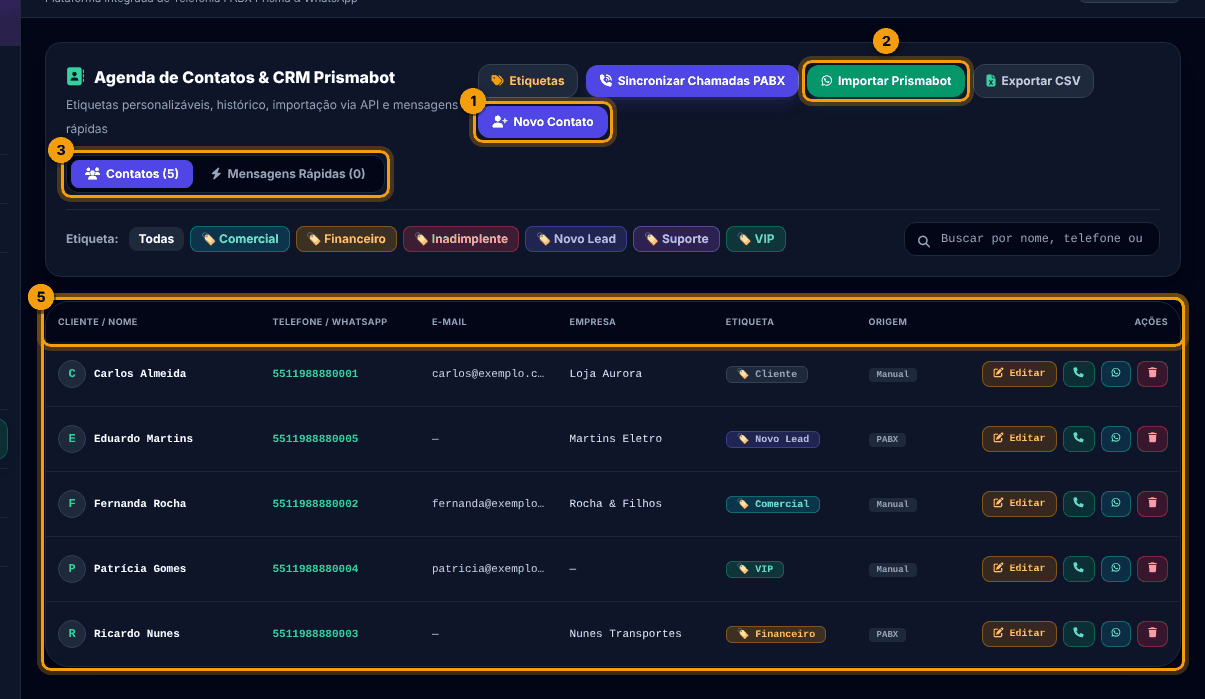
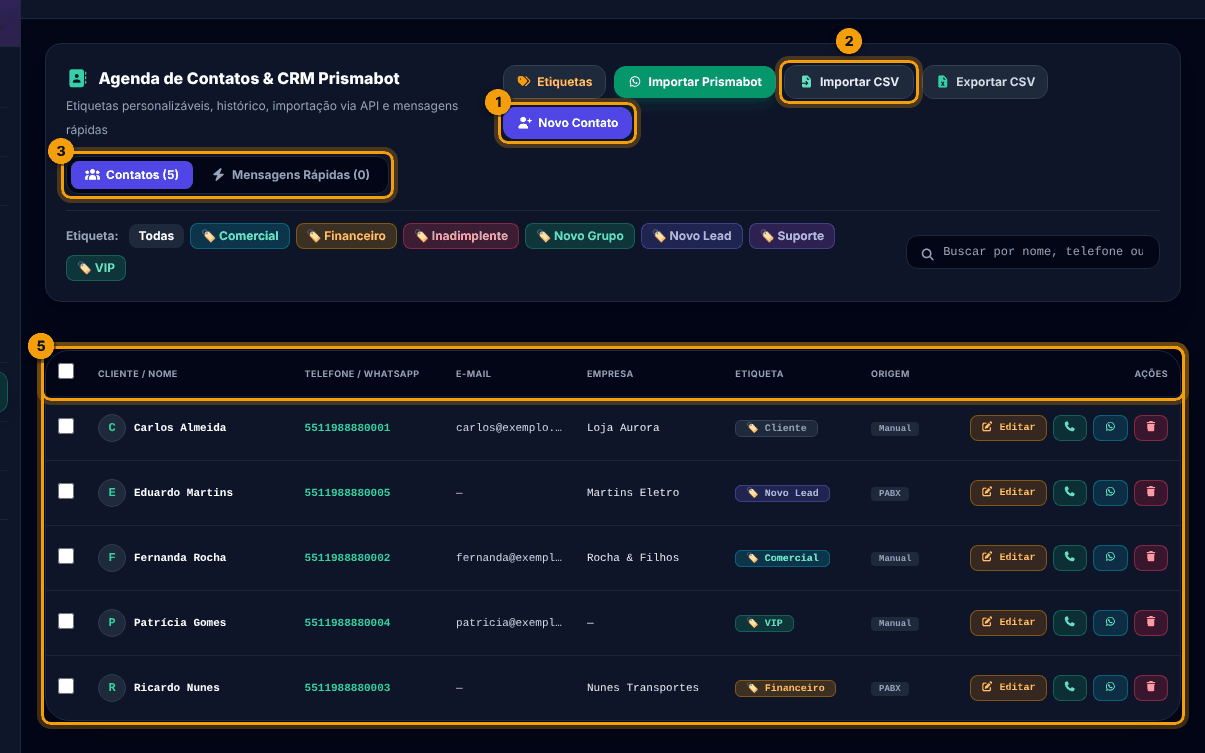
Manual: artigos com imagens e regras (Importar Prismabot, Importar CSV, apagar em lote, Agenda)
Claude-Session: https://claude.ai/code/session_01HdKHX4MgYy3BSAUchSo52J

diff --git a/src/front_api/pabx_panel/includes/manual.php b/src/front_api/pabx_panel/includes/manual.php
@@ -55,8 +55,9 @@ return [
         ['t' => 'Chamadas perdidas: quando avisar', 'd' => 'O atendente só é avisado quando a perda é real: ignora chamadas muito curtas e chamadas atendidas em outro ramal. Os limites são ajustáveis na tela de APIs & Conexões.'],
         ['t' => 'Histórico de envio', 'imgs' => [['f' => 'manual/tela-wa-historico.png', 'c' => 'Histórico de tudo o que foi enviado por WhatsApp.']], 'd' => 'Lista de tudo o que foi enviado e se chegou ao destino.'],
         ['t' => 'Disparo rápido', 'imgs' => [['f' => 'manual/tela-wa-disparo.png', 'c' => 'Disparo rápido: envio de teste com mensagem e anexo.']], 'd' => 'Envia uma mensagem de teste ou avulsa para um número. Dá para anexar uma foto, áudio, vídeo ou documento (até 16 MB): com o WhatsApp direto, cada arquivo vai no formato certo (a foto aparece como foto, o áudio como áudio).'],
-        ['t' => 'Agenda & Contatos', 'imgs' => [['f' => 'manual/tela-agenda.png', 'c' => 'Agenda & Contatos, sincronizada com o painel clássico.']], 'd' => 'Cadastro de contatos usado nos envios e na identificação de quem liga.'],
-        ['t' => 'Importar contatos por CSV', 'd' => 'Em Agenda & Contatos, clique em Importar CSV, escolha a planilha (salva como .csv) e clique em Ver prévia. O painel reconhece as colunas Nome, Telefone, E-mail, Empresa e Etiqueta, mesmo com nomes parecidos, e arruma os telefones. Na prévia você vê quantos contatos serão importados, quantos já existem, quantos estão repetidos no arquivo, quantos têm número inválido e quantos estão sem nome. Se alguma coluna não foi reconhecida, escolha a correta nas caixas e clique em Recalcular prévia. Marque Importar também os contatos sem nome se quiser incluí-los e clique em Importar agora. Para começar do zero, use Baixar modelo de planilha.', 'aviso' => 'Contatos cujo número já está na agenda não são cadastrados de novo. Etiquetas que ainda não existem são criadas automaticamente.'],
+        ['t' => 'Agenda & Contatos', 'imgs' => [['f' => 'manual/tela-agenda.png', 'c' => 'Agenda & Contatos, sincronizada com o painel clássico.']], 'd' => 'Cadastro de contatos usado nos envios e na identificação de quem liga. Os contatos daqui aparecem também na agenda do painel clássico, e o contrário também vale.', 'campos' => ['Novo Contato' => 'Cadastra um contato na mão (nome e telefone são obrigatórios).', 'Importar Prismabot' => 'Busca os contatos na API do Prismabot configurada em Configurações > API.', 'Importar CSV' => 'Importa uma planilha, com prévia antes de gravar.', 'Exportar CSV' => 'Baixa a lista de contatos em planilha.', 'Etiquetas' => 'Cria, edita e apaga etiquetas coloridas para organizar os contatos.'], 'aviso' => 'Regra geral de toda importação e cadastro: o número é a identidade do contato. Se o número já existe na agenda, ele não é cadastrado de novo, mesmo que venha com outra formatação (com ou sem 55, parênteses, traço ou o 9º dígito).'],
+        ['t' => 'Importar contatos do Prismabot', 'd' => 'O botão Importar Prismabot busca, na hora do clique, os contatos da API que está configurada em Configurações > API. Cada cliente usa a sua própria API: se você apagar a API e criar outra, basta atualizar a URL e o token e importar de novo para trazer os dados certos.', 'passos' => ['Confira em Configurações > API se a URL e o token estão preenchidos.', 'Em Agenda & Contatos, clique em Importar Prismabot.', 'Marque Importar também os contatos sem nome se quiser trazê-los (eles entram com o número no lugar do nome). Desmarcado, eles são ignorados.', 'Clique em Importar. A mensagem no topo mostra quantos contatos entraram e quantos sem nome foram ignorados.'], 'campos' => ['Contato sem nome' => 'É o que chega da API com nome vazio ou com o próprio número no lugar do nome.', 'Número já cadastrado' => 'É ignorado, para não duplicar.'], 'dica' => 'Se aparecer erro, a mensagem diz o motivo: token recusado, endereço não encontrado (404) ou URL fora do formato esperado.', 'aviso' => 'Importar não apaga nem altera contatos que já existem; só acrescenta os novos.'],
+        ['t' => 'Importar contatos por CSV', 'd' => 'Importa uma planilha de contatos de qualquer origem. O painel reconhece as colunas, arruma os telefones e mostra uma prévia: só depois que você confirma é que os contatos são gravados.', 'passos' => ['Salve a planilha como CSV (no Excel: Salvar como > CSV). Para começar do zero, clique em Importar CSV e depois em Baixar modelo de planilha.', 'Clique em Importar CSV, escolha o arquivo e clique em Ver prévia.', 'Confira o resumo e a lista de exemplo. Se alguma coluna não foi reconhecida, escolha a correta nas caixas Nome, Telefone, E-mail, Empresa e Etiqueta e clique em Recalcular prévia.', 'Marque Importar também os contatos sem nome, se quiser incluí-los.', 'Clique em Importar agora. A mensagem final resume o que entrou e o que foi ignorado.'], 'campos' => ['Serão importados' => 'Contatos com nome e número válido que ainda não existem na agenda.', 'Sem nome' => 'Linhas com número válido, mas sem nome. Só entram se a caixa for marcada, com o número no lugar do nome.', 'Já cadastrados' => 'O número já está na agenda: a linha é ignorada.', 'Repetidos no arquivo' => 'O mesmo número aparece mais de uma vez no arquivo: só a primeira vale.', 'Número inválido' => 'Telefone com poucos ou muitos dígitos. A prévia lista as linhas para você corrigir.'], 'dica' => 'O painel entende separador ; ou , e acentos de planilhas antigas. Telefones como (16) 3721-0000 ou 16 99999-0000 são arrumados e ganham o 55 sozinhos. Etiquetas que ainda não existem são criadas na hora.', 'aviso' => 'Limite de 5 MB e 20.000 linhas por arquivo. Acima disso, divida a planilha em partes.'],
         ['t' => 'Apagar vários contatos de uma vez', 'd' => 'Em Agenda & Contatos, marque a caixinha de cada contato que quer apagar, ou use a caixinha do topo da tabela para marcar todos os que aparecem (respeita o filtro de etiqueta e a busca). O botão vermelho Apagar selecionados mostra quantos estão marcados e pede confirmação antes de excluir.', 'aviso' => 'Contatos apagados não podem ser recuperados. A exclusão vale também para a agenda do painel clássico, que fica igual a esta.'],
         ['t' => 'Relatórios agendados por e-mail ou WhatsApp', 'd' => 'Em Configurações > E-mail (SMTP), no quadro Cadastrar Novo Agendamento: 1) dê um título; 2) escolha o relatório; 3) escolha a frequência (diário, semanal ou mensal); 4) confira o Período dos dados, que já vem sugerido (diário = ontem, semanal = semana anterior, mensal = mês anterior) e pode ser trocado por hoje, últimos 7 ou 30 dias; 5) defina o horário e o destino; 6) clique em Criar Agendamento. Para mudar algo depois, clique em Editar na lista de agendamentos ativos, ajuste e clique em Salvar Alterações.', 'aviso' => 'Um relatório enviado às 8h com período Hoje sai quase vazio, porque o dia mal começou. Para relatório diário, use Ontem.'],
         ['t' => 'Etiquetas dos contatos', 'd' => 'As etiquetas separam seus contatos por grupo (Comercial, Financeiro, VIP…). Você pode criar, editar e apagar as etiquetas quando quiser.', 'passos' => ['Em Agenda & Contatos, clique em Etiquetas (no topo da tela).', 'Para criar: digite o nome, escolha uma cor e clique em Criar Etiqueta.', 'Para editar: na lista de etiquetas existentes, clique no lápis, mude o nome e/ou a cor e clique em Salvar alterações. Os contatos que usavam a etiqueta passam a mostrar o nome novo.', 'Para apagar: clique na lixeira e confirme. Os contatos que usavam a etiqueta ficam sem etiqueta; nenhum contato é apagado.'], 'aviso' => 'Uma etiqueta apagada não volta sozinha, nem as que já vêm de fábrica. Se quiser de novo, crie outra com o mesmo nome.', 'dica' => 'A lista mostra quantos contatos usam cada etiqueta, para você saber o efeito antes de apagar.', 'kw' => 'etiqueta tag grupo contato editar apagar excluir renomear cor'],

diff --git a/scripts/manual-shots/specs_p2.py b/scripts/manual-shots/specs_p2.py
@@ -42,7 +42,20 @@ add('whatsapp', 'Disparo rápido',
   fig('w3-di', 'index.php?module=whatsapp&action=disparos', 'Disparo rápido de teste.', ['Telefone de destino, com DDD.', 'Texto da mensagem.', 'Anexo opcional: foto, áudio, vídeo ou documento (até 16 MB).', 'Agendar para: deixe em branco para enviar já.', 'Disparar ou Agendar Mensagem.', 'Envios Agendados: o que ainda vai ser enviado.'],
       [m(1, sel='input[placeholder*="11999998888"]', pos='tl'), m(2, sel='textarea', pos='tl'), m(3, sel='input[type=file]', pos='tl'), m(4, sel='input[type=datetime-local]', pos='tl'), m(5, t='Disparar ou Agendar', pos='r'), m(6, t='Envios Agendados', closest='[class*="rounded"]', pos='tl')], minw=700, vp=(1440, 1000)))
 add('whatsapp', 'Agenda & Contatos',
-  fig('w4-ag', 'index.php?module=whatsapp&action=contatos', 'Agenda de contatos.', ['Novo Contato.', 'Importar contatos e exportar em CSV.', 'Abas Contatos e Mensagens Rápidas.', 'Filtro por etiqueta e busca.', 'Lista de contatos com telefone, e-mail, empresa e etiqueta.'],
-      [m(1, t='Novo Contato', pos='tl'), m(2, t='Importar Prismabot', pos='t'), m(3, t='^\\s*Contatos \\(', up=1, pos='tl'), m(4, t='Etiqueta', up=1, pos='tl'), m(5, t='CLIENTE / NOME', closest='table', pos='tl')], minw=700),
+  fig('w4-ag', 'index.php?module=whatsapp&action=contatos', 'Agenda de contatos.', ['Novo Contato.', 'Importar Prismabot (da API) ou Importar CSV (de planilha) e exportar em CSV.', 'Abas Contatos e Mensagens Rápidas.', 'Filtro por etiqueta e busca.', 'Lista de contatos com telefone, e-mail, empresa e etiqueta.'],
+      [m(1, t='Novo Contato', pos='tl'), m(2, t='Importar CSV', pos='t'), m(3, t='^\\s*Contatos \\(', up=1, pos='tl'), m(4, t='Etiqueta', up=1, pos='tl'), m(5, t='CLIENTE / NOME', closest='table', pos='tl')], minw=700),
   fig('w4-novo', 'index.php?module=whatsapp&action=contatos', 'Janela de novo contato.', ['Nome e telefone com WhatsApp são obrigatórios; empresa, e-mail, etiqueta e observações são opcionais.', 'Adicionar Contato grava o contato (e ele aparece também na Agenda do painel clássico).'],
       [m(1, sel='input[placeholder="Nome completo"]', pos='tl'), m(2, t='Adicionar Contato', pos='r')], steps=[('clicktext', 'Novo Contato'), ('wait', 1000)], minw=520, pad=60))
+
+add('whatsapp', 'Importar contatos do Prismabot',
+  fig('w4-prisma', 'index.php?module=whatsapp&action=contatos', 'Janela do Importar Prismabot.', ['Importar também os contatos sem nome: desmarcado, eles são ignorados.', 'Importar: busca os contatos na API configurada nesse momento e grava só os números que ainda não estão na agenda.'],
+      [m(1, t='Importar também os contatos sem nome', closest='label', pos='tl'), m(2, sel='#modal-import-prismabot button[type=submit]', pos='r')], steps=[('clicktext', 'Importar Prismabot'), ('wait', 800)], minw=520, pad=60))
+add('whatsapp', 'Importar contatos por CSV',
+  fig('w4-csv', 'index.php?module=whatsapp&action=contatos', 'Janela do Importar CSV.', ['Importar CSV.', 'Escolha o arquivo .csv (planilha salva como CSV).', 'Baixar modelo de planilha.', 'Ver prévia: nada é gravado ainda.'],
+      [m(1, t='Importar CSV', pos='tl'), m(2, sel='#modal-import-csv input[type=file]', pos='tl'), m(3, t='Baixar modelo de planilha', pos='tl'), m(4, t='Ver prévia', pos='r')], steps=[('clicktext', 'Importar CSV'), ('wait', 800)], minw=520, pad=60),
+  fig('w4-csvprev', 'index.php?module=whatsapp&action=contatos', 'Prévia da importação do CSV.', ['Resumo: quantos serão importados, sem nome, já cadastrados, repetidos no arquivo e com número inválido.', 'Colunas do arquivo: ajuste se o painel não reconheceu alguma.', 'Recalcular prévia depois de mudar uma coluna.', 'Importar também os contatos sem nome.', 'Importar agora: só aqui os contatos são gravados.'],
+      [m(1, sel='#modal-csv-preview .grid', pos='tl'), m(2, t='Colunas do arquivo', up=1, pos='tl'), m(3, t='Recalcular prévia', pos='tl'), m(4, t='Importar também os', closest='label', pos='tl'), m(5, t='Importar agora', pos='r')],
+      steps=[('js', "const csv='Cliente;Celular;E-mail;Empresa;Grupo\\nCarlos Almeida;(11) 98888-0001;carlos@exemplo.com.br;Loja Aurora;Cliente\\nJoana Prado;16 99999-0100;joana@exemplo.com.br;;VIP\\nMarcos Lima;(16) 3721-0000;;Lima Peças;Novo Lead\\n;16988887777;;;\\nFulano;123;;;\\nCarlos Repetido;5511988880001;;;\\n';const fd=new FormData();fd.append('action_csv','1');fd.append('csv_step','upload');fd.append('csv_file',new Blob([csv],{type:'text/csv'}),'contatos.csv');fetch('index.php?module=whatsapp&action=contatos',{method:'POST',body:fd}).then(r=>r.text()).then(h=>{document.open();document.write(h);document.close();});"), ('wait', 2500)], minw=640, pad=30, vp=(1440, 1000)))
+add('whatsapp', 'Apagar vários contatos de uma vez',
+  fig('w4-bulk', 'index.php?module=whatsapp&action=contatos', 'Seleção e exclusão em lote.', ['Caixinha do topo: marca todos os contatos que aparecem (respeita filtro e busca).', 'Caixinha de cada contato.', 'Apagar selecionados mostra quantos estão marcados e pede confirmação.'],
+      [m(1, sel='thead input[type=checkbox]', pos='tl'), m(2, sel='tbody input[type=checkbox]', pos='tl'), m(3, sel='#bulk-delete-btn', pos='tl')], steps=[('click', 'thead input[type=checkbox]'), ('wait', 600)], minw=700))

diff --git a/src/front_api/pabx_panel/includes/manual_figuras.php b/src/front_api/pabx_panel/includes/manual_figuras.php
@@ -35,8 +35,12 @@ return [
         ['f' => 'manual/fig/w0-msg.png', 'c' => 'Caixas de texto das mensagens automáticas.', 'n' => ['Mensagem de abandono de fila.', 'Mensagem de transbordo (cliente escolheu atendimento por WhatsApp).', 'Aviso ao atendente de chamada perdida.', 'Restaurar Padrões de Fábrica volta aos textos originais.', 'Salvar Regras de Integração grava tudo.']]],
     'whatsapp|Histórico de envio' => [['f' => 'manual/fig/w2-hist.png', 'c' => 'Histórico dos envios.', 'n' => ['Período: Hoje, Ontem, 7 Dias, Mês ou datas.', 'Busca por número ou ramal e botão Filtrar.', 'Exportar a lista.', 'Tabela: data, destino, regra, mensagem e se chegou (status).']]],
     'whatsapp|Disparo rápido' => [['f' => 'manual/fig/w3-di.png', 'c' => 'Disparo rápido de teste.', 'n' => ['Telefone de destino, com DDD.', 'Texto da mensagem.', 'Anexo opcional: foto, áudio, vídeo ou documento (até 16 MB).', 'Agendar para: deixe em branco para enviar já.', 'Disparar ou Agendar Mensagem.', 'Envios Agendados: o que ainda vai ser enviado.']]],
-    'whatsapp|Agenda & Contatos' => [['f' => 'manual/fig/w4-ag.png', 'c' => 'Agenda de contatos.', 'n' => ['Novo Contato.', 'Importar contatos e exportar em CSV.', 'Abas Contatos e Mensagens Rápidas.', 'Filtro por etiqueta e busca.', 'Lista de contatos com telefone, e-mail, empresa e etiqueta.']],
+    'whatsapp|Agenda & Contatos' => [['f' => 'manual/fig/w4-ag.png', 'c' => 'Agenda de contatos.', 'n' => ['Novo Contato.', 'Importar Prismabot (da API) ou Importar CSV (de planilha) e exportar em CSV.', 'Abas Contatos e Mensagens Rápidas.', 'Filtro por etiqueta e busca.', 'Lista de contatos com telefone, e-mail, empresa e etiqueta.']],
         ['f' => 'manual/fig/w4-novo.png', 'c' => 'Janela de novo contato.', 'n' => ['Nome e telefone com WhatsApp são obrigatórios; empresa, e-mail, etiqueta e observações são opcionais.', 'Adicionar Contato grava o contato (e ele aparece também na Agenda do painel clássico).']]],
+    'whatsapp|Importar contatos do Prismabot' => [['f' => 'manual/fig/w4-prisma.png', 'c' => 'Janela do Importar Prismabot.', 'n' => ['Importar também os contatos sem nome: desmarcado, eles são ignorados.', 'Importar: busca os contatos na API configurada nesse momento e grava só os números que ainda não estão na agenda.']]],
+    'whatsapp|Importar contatos por CSV' => [['f' => 'manual/fig/w4-csv.png', 'c' => 'Janela do Importar CSV.', 'n' => ['Importar CSV.', 'Escolha o arquivo .csv (planilha salva como CSV).', 'Baixar modelo de planilha.', 'Ver prévia: nada é gravado ainda.']],
+        ['f' => 'manual/fig/w4-csvprev.png', 'c' => 'Prévia da importação do CSV.', 'n' => ['Resumo: quantos serão importados, sem nome, já cadastrados, repetidos no arquivo e com número inválido.', 'Colunas do arquivo: ajuste se o painel não reconheceu alguma.', 'Recalcular prévia depois de mudar uma coluna.', 'Importar também os contatos sem nome.', 'Importar agora: só aqui os contatos são gravados.']]],
+    'whatsapp|Apagar vários contatos de uma vez' => [['f' => 'manual/fig/w4-bulk.png', 'c' => 'Seleção e exclusão em lote.', 'n' => ['Caixinha do topo: marca todos os contatos que aparecem (respeita filtro e busca).', 'Caixinha de cada contato.', 'Apagar selecionados mostra quantos estão marcados e pede confirmação.']]],
     'relatorios|Gravação por WhatsApp: arquivo anexo' => [['f' => 'manual/fig/rl0-cdr.png', 'c' => 'Na lista de chamadas, o botão do WhatsApp envia a gravação como arquivo de áudio.', 'n' => ['Coluna Player & Copiloto: ouvir, baixar e enviar por WhatsApp.']]],
     'relatorios|Chat IA: enviar e agendar por conversa' => [['f' => 'manual/fig/rl1-chat.png', 'c' => 'Peça ao assistente e confirme o cartão antes de enviar (conversa de exemplo).', 'n' => ['Seu pedido, em linguagem normal.', 'Cartão de confirmação: destinatário, texto, data e hora.', 'Confirmar envia ou agenda; Cancelar descarta.']],
         ['f' => 'manual/fig/rl1-agendados.png', 'c' => 'O agendamento aparece em Disparo Rápido, na lista Envios Agendados.', 'n' => ['Lista de Envios Agendados, com o que foi marcado pelo Chat IA.']]],
